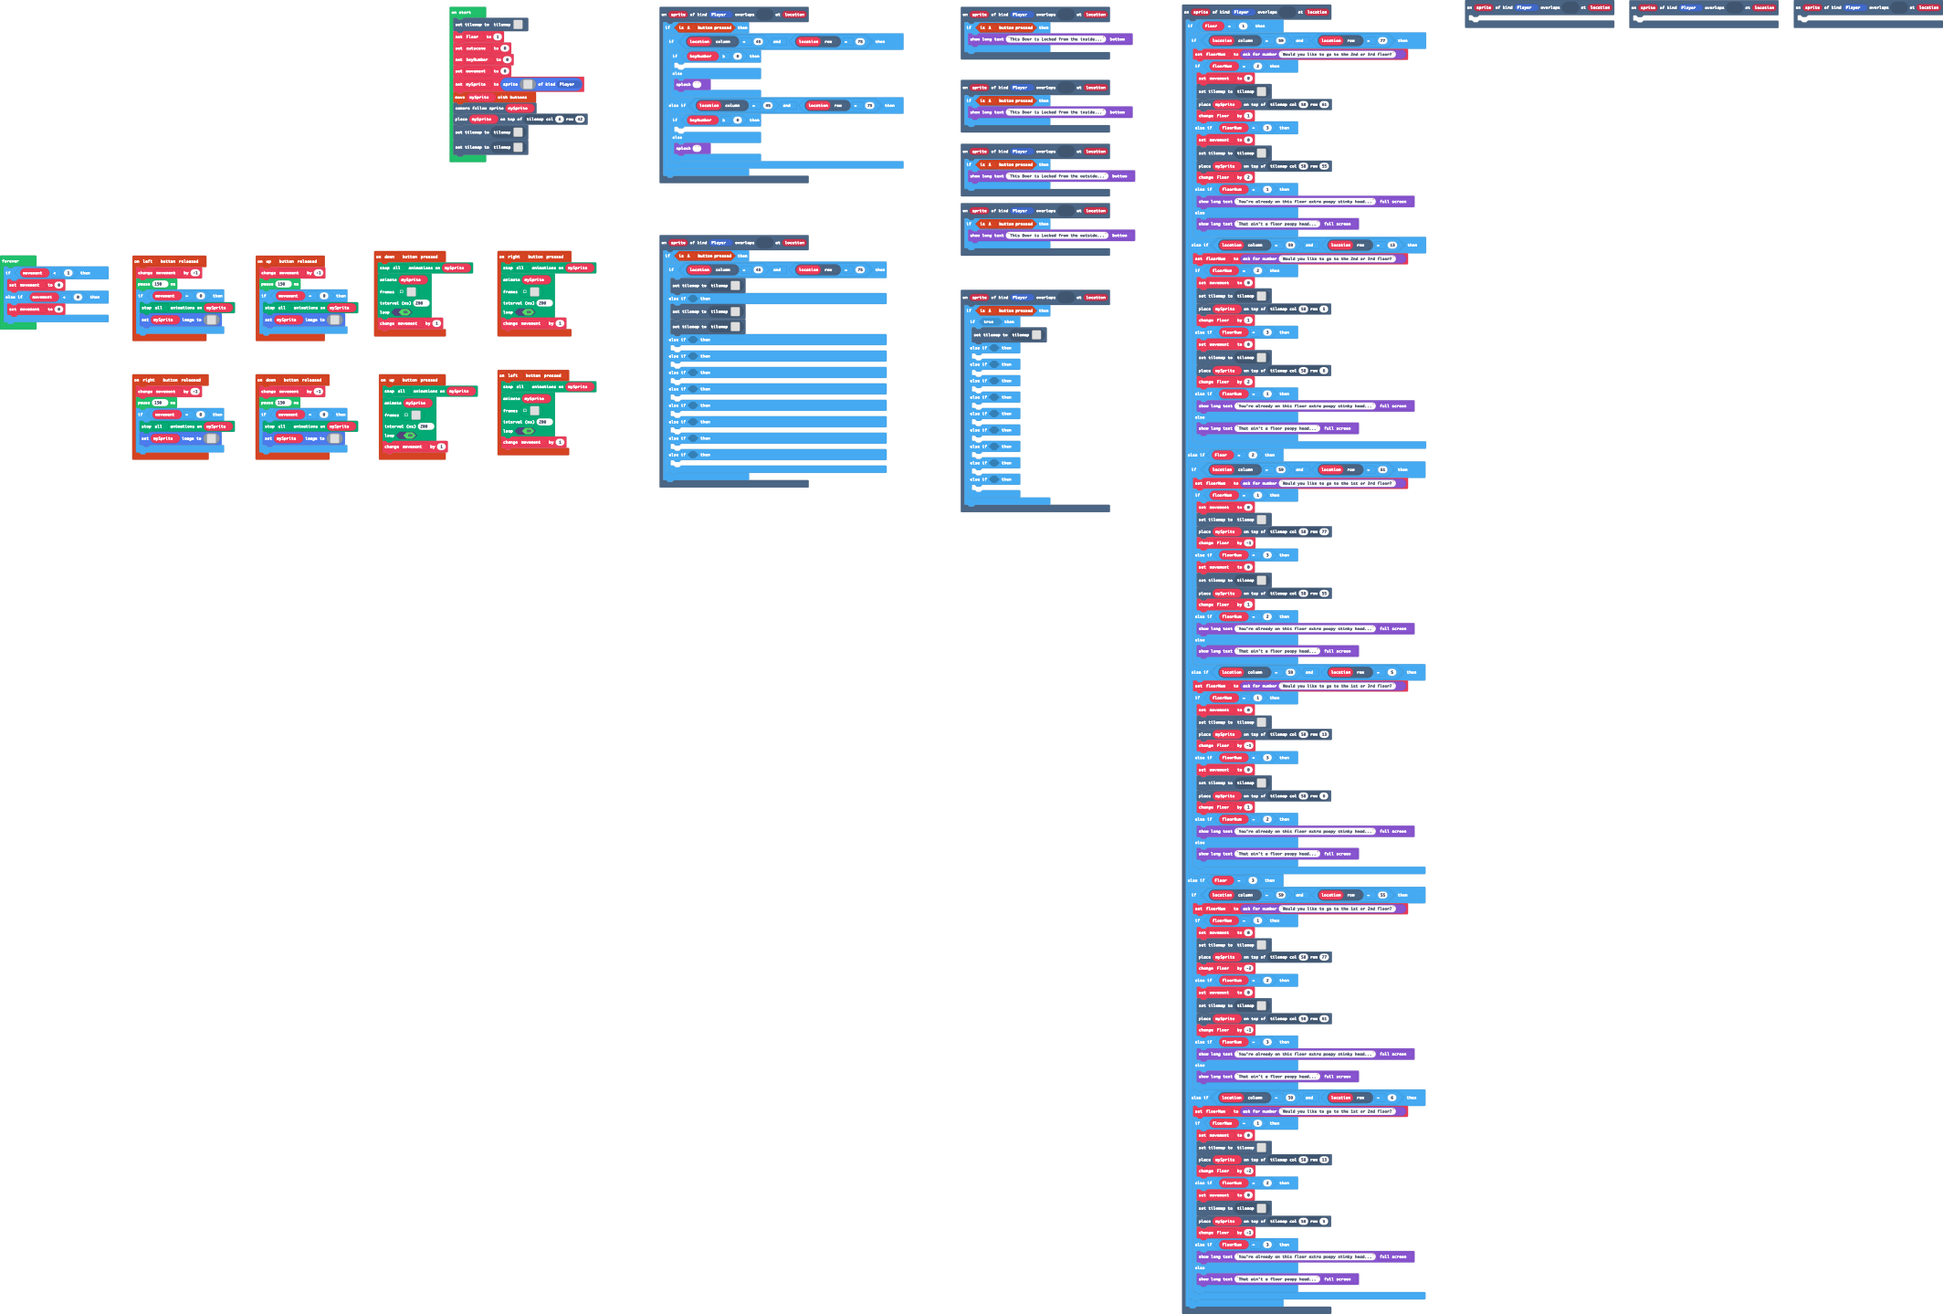
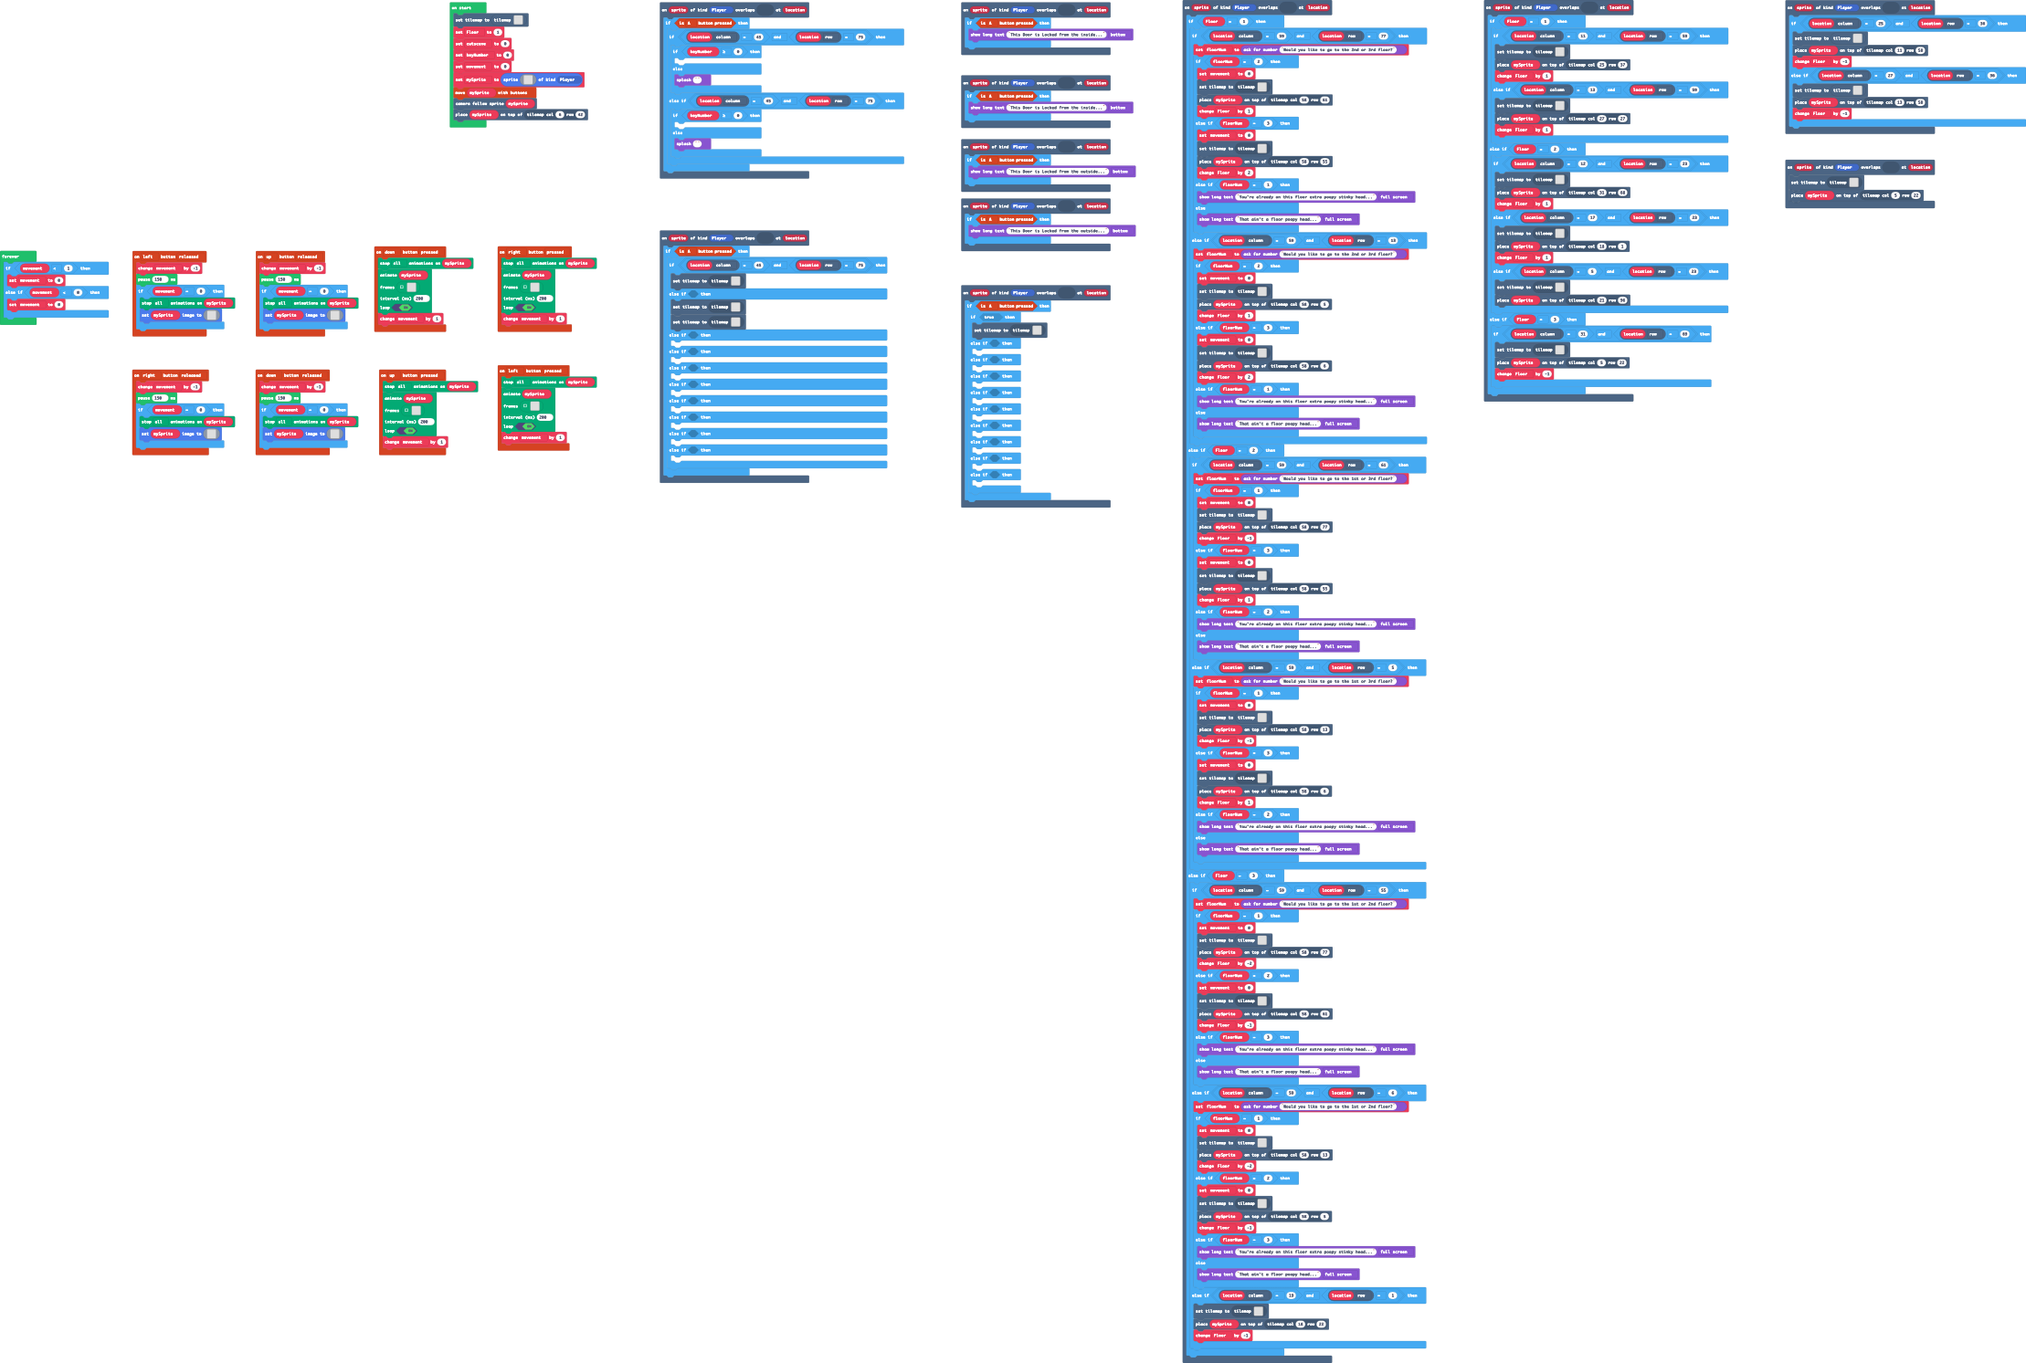
Update main.blocks, main.ts, tilemap.g.jres, tilemap.g.ts

Changed region(s): [[0.0, 0.0, 1.0, 1.0]]

diff --git a/tilemap.g.ts b/tilemap.g.ts
@@ -1316,6 +1316,234 @@ namespace myTiles {
 ....................
 ....................
 `, [myTiles.transparency16,myTiles.tile11,myTiles.tile1,myTiles.tile33,myTiles.tile34,myTiles.tile5,myTiles.tile7,myTiles.tile8,myTiles.tile14,myTiles.tile15,myTiles.tile25,myTiles.tile26,myTiles.tile46,myTiles.tile47], TileScale.Sixteen);
+            case "level46":
+            case "level46":return tiles.createTilemap(hex`1000100000000000000000000000000000000000000000000000000000000000000000000000000000000000000000000000000000000000000000000000000000000000000000000000000000000000000000000000000000000000000000000000000000000000000000000000000000000000000000000000000000000000000000000000000000000000000000000000000000000000000000000000000000000000000000000000000000000000000000000000000000000000000000000000000000000000000000000000000000000000000000000000000000000000000000000000000000000000000000000000000000000000000000000000000000000000`, img`
+. . . . . . . . . . . . . . . . 
+. . . . . . . . . . . . . . . . 
+. . . . . . . . . . . . . . . . 
+. . . . . . . . . . . . . . . . 
+. . . . . . . . . . . . . . . . 
+. . . . . . . . . . . . . . . . 
+. . . . . . . . . . . . . . . . 
+. . . . . . . . . . . . . . . . 
+. . . . . . . . . . . . . . . . 
+. . . . . . . . . . . . . . . . 
+. . . . . . . . . . . . . . . . 
+. . . . . . . . . . . . . . . . 
+. . . . . . . . . . . . . . . . 
+. . . . . . . . . . . . . . . . 
+. . . . . . . . . . . . . . . . 
+. . . . . . . . . . . . . . . . 
+`, [myTiles.transparency16], TileScale.Sixteen);
+            case "level47":
+            case "level47":return tiles.createTilemap(hex`1000100000000000000000000000000000000000000000000000000000000000000000000000000000000000000000000000000000000000000000000000000000000000000000000000000000000000000000000000000000000000000000000000000000000000000000000000000000000000000000000000000000000000000000000000000000000000000000000000000000000000000000000000000000000000000000000000000000000000000000000000000000000000000000000000000000000000000000000000000000000000000000000000000000000000000000000000000000000000000000000000000000000000000000000000000000000000`, img`
+. . . . . . . . . . . . . . . . 
+. . . . . . . . . . . . . . . . 
+. . . . . . . . . . . . . . . . 
+. . . . . . . . . . . . . . . . 
+. . . . . . . . . . . . . . . . 
+. . . . . . . . . . . . . . . . 
+. . . . . . . . . . . . . . . . 
+. . . . . . . . . . . . . . . . 
+. . . . . . . . . . . . . . . . 
+. . . . . . . . . . . . . . . . 
+. . . . . . . . . . . . . . . . 
+. . . . . . . . . . . . . . . . 
+. . . . . . . . . . . . . . . . 
+. . . . . . . . . . . . . . . . 
+. . . . . . . . . . . . . . . . 
+. . . . . . . . . . . . . . . . 
+`, [myTiles.transparency16], TileScale.Sixteen);
+            case "level48":
+            case "level48":return tiles.createTilemap(hex`1000100000000000000000000000000000000000000000000000000000000000000000000000000000000000000000000000000000000000000000000000000000000000000000000000000000000000000000000000000000000000000000000000000000000000000000000000000000000000000000000000000000000000000000000000000000000000000000000000000000000000000000000000000000000000000000000000000000000000000000000000000000000000000000000000000000000000000000000000000000000000000000000000000000000000000000000000000000000000000000000000000000000000000000000000000000000000`, img`
+. . . . . . . . . . . . . . . . 
+. . . . . . . . . . . . . . . . 
+. . . . . . . . . . . . . . . . 
+. . . . . . . . . . . . . . . . 
+. . . . . . . . . . . . . . . . 
+. . . . . . . . . . . . . . . . 
+. . . . . . . . . . . . . . . . 
+. . . . . . . . . . . . . . . . 
+. . . . . . . . . . . . . . . . 
+. . . . . . . . . . . . . . . . 
+. . . . . . . . . . . . . . . . 
+. . . . . . . . . . . . . . . . 
+. . . . . . . . . . . . . . . . 
+. . . . . . . . . . . . . . . . 
+. . . . . . . . . . . . . . . . 
+. . . . . . . . . . . . . . . . 
+`, [myTiles.transparency16], TileScale.Sixteen);
+            case "level49":
+            case "level49":return tiles.createTilemap(hex`1000100000000000000000000000000000000000000000000000000000000000000000000000000000000000000000000000000000000000000000000000000000000000000000000000000000000000000000000000000000000000000000000000000000000000000000000000000000000000000000000000000000000000000000000000000000000000000000000000000000000000000000000000000000000000000000000000000000000000000000000000000000000000000000000000000000000000000000000000000000000000000000000000000000000000000000000000000000000000000000000000000000000000000000000000000000000000`, img`
+. . . . . . . . . . . . . . . . 
+. . . . . . . . . . . . . . . . 
+. . . . . . . . . . . . . . . . 
+. . . . . . . . . . . . . . . . 
+. . . . . . . . . . . . . . . . 
+. . . . . . . . . . . . . . . . 
+. . . . . . . . . . . . . . . . 
+. . . . . . . . . . . . . . . . 
+. . . . . . . . . . . . . . . . 
+. . . . . . . . . . . . . . . . 
+. . . . . . . . . . . . . . . . 
+. . . . . . . . . . . . . . . . 
+. . . . . . . . . . . . . . . . 
+. . . . . . . . . . . . . . . . 
+. . . . . . . . . . . . . . . . 
+. . . . . . . . . . . . . . . . 
+`, [myTiles.transparency16], TileScale.Sixteen);
+            case "level50":
+            case "level50":return tiles.createTilemap(hex`1000100000000000000000000000000000000000000000000000000000000000000000000000000000000000000000000000000000000000000000000000000000000000000000000000000000000000000000000000000000000000000000000000000000000000000000000000000000000000000000000000000000000000000000000000000000000000000000000000000000000000000000000000000000000000000000000000000000000000000000000000000000000000000000000000000000000000000000000000000000000000000000000000000000000000000000000000000000000000000000000000000000000000000000000000000000000000`, img`
+. . . . . . . . . . . . . . . . 
+. . . . . . . . . . . . . . . . 
+. . . . . . . . . . . . . . . . 
+. . . . . . . . . . . . . . . . 
+. . . . . . . . . . . . . . . . 
+. . . . . . . . . . . . . . . . 
+. . . . . . . . . . . . . . . . 
+. . . . . . . . . . . . . . . . 
+. . . . . . . . . . . . . . . . 
+. . . . . . . . . . . . . . . . 
+. . . . . . . . . . . . . . . . 
+. . . . . . . . . . . . . . . . 
+. . . . . . . . . . . . . . . . 
+. . . . . . . . . . . . . . . . 
+. . . . . . . . . . . . . . . . 
+. . . . . . . . . . . . . . . . 
+`, [myTiles.transparency16], TileScale.Sixteen);
+            case "level51":
+            case "level51":return tiles.createTilemap(hex`1000100000000000000000000000000000000000000000000000000000000000000000000000000000000000000000000000000000000000000000000000000000000000000000000000000000000000000000000000000000000000000000000000000000000000000000000000000000000000000000000000000000000000000000000000000000000000000000000000000000000000000000000000000000000000000000000000000000000000000000000000000000000000000000000000000000000000000000000000000000000000000000000000000000000000000000000000000000000000000000000000000000000000000000000000000000000000`, img`
+. . . . . . . . . . . . . . . . 
+. . . . . . . . . . . . . . . . 
+. . . . . . . . . . . . . . . . 
+. . . . . . . . . . . . . . . . 
+. . . . . . . . . . . . . . . . 
+. . . . . . . . . . . . . . . . 
+. . . . . . . . . . . . . . . . 
+. . . . . . . . . . . . . . . . 
+. . . . . . . . . . . . . . . . 
+. . . . . . . . . . . . . . . . 
+. . . . . . . . . . . . . . . . 
+. . . . . . . . . . . . . . . . 
+. . . . . . . . . . . . . . . . 
+. . . . . . . . . . . . . . . . 
+. . . . . . . . . . . . . . . . 
+. . . . . . . . . . . . . . . . 
+`, [myTiles.transparency16], TileScale.Sixteen);
+            case "level52":
+            case "level52":return tiles.createTilemap(hex`1000100000000000000000000000000000000000000000000000000000000000000000000000000000000000000000000000000000000000000000000000000000000000000000000000000000000000000000000000000000000000000000000000000000000000000000000000000000000000000000000000000000000000000000000000000000000000000000000000000000000000000000000000000000000000000000000000000000000000000000000000000000000000000000000000000000000000000000000000000000000000000000000000000000000000000000000000000000000000000000000000000000000000000000000000000000000000`, img`
+. . . . . . . . . . . . . . . . 
+. . . . . . . . . . . . . . . . 
+. . . . . . . . . . . . . . . . 
+. . . . . . . . . . . . . . . . 
+. . . . . . . . . . . . . . . . 
+. . . . . . . . . . . . . . . . 
+. . . . . . . . . . . . . . . . 
+. . . . . . . . . . . . . . . . 
+. . . . . . . . . . . . . . . . 
+. . . . . . . . . . . . . . . . 
+. . . . . . . . . . . . . . . . 
+. . . . . . . . . . . . . . . . 
+. . . . . . . . . . . . . . . . 
+. . . . . . . . . . . . . . . . 
+. . . . . . . . . . . . . . . . 
+. . . . . . . . . . . . . . . . 
+`, [myTiles.transparency16], TileScale.Sixteen);
+            case "level53":
+            case "level53":return tiles.createTilemap(hex`1000100000000000000000000000000000000000000000000000000000000000000000000000000000000000000000000000000000000000000000000000000000000000000000000000000000000000000000000000000000000000000000000000000000000000000000000000000000000000000000000000000000000000000000000000000000000000000000000000000000000000000000000000000000000000000000000000000000000000000000000000000000000000000000000000000000000000000000000000000000000000000000000000000000000000000000000000000000000000000000000000000000000000000000000000000000000000`, img`
+. . . . . . . . . . . . . . . . 
+. . . . . . . . . . . . . . . . 
+. . . . . . . . . . . . . . . . 
+. . . . . . . . . . . . . . . . 
+. . . . . . . . . . . . . . . . 
+. . . . . . . . . . . . . . . . 
+. . . . . . . . . . . . . . . . 
+. . . . . . . . . . . . . . . . 
+. . . . . . . . . . . . . . . . 
+. . . . . . . . . . . . . . . . 
+. . . . . . . . . . . . . . . . 
+. . . . . . . . . . . . . . . . 
+. . . . . . . . . . . . . . . . 
+. . . . . . . . . . . . . . . . 
+. . . . . . . . . . . . . . . . 
+. . . . . . . . . . . . . . . . 
+`, [myTiles.transparency16], TileScale.Sixteen);
+            case "level54":
+            case "level54":return tiles.createTilemap(hex`1000100000000000000000000000000000000000000000000000000000000000000000000000000000000000000000000000000000000000000000000000000000000000000000000000000000000000000000000000000000000000000000000000000000000000000000000000000000000000000000000000000000000000000000000000000000000000000000000000000000000000000000000000000000000000000000000000000000000000000000000000000000000000000000000000000000000000000000000000000000000000000000000000000000000000000000000000000000000000000000000000000000000000000000000000000000000000`, img`
+. . . . . . . . . . . . . . . . 
+. . . . . . . . . . . . . . . . 
+. . . . . . . . . . . . . . . . 
+. . . . . . . . . . . . . . . . 
+. . . . . . . . . . . . . . . . 
+. . . . . . . . . . . . . . . . 
+. . . . . . . . . . . . . . . . 
+. . . . . . . . . . . . . . . . 
+. . . . . . . . . . . . . . . . 
+. . . . . . . . . . . . . . . . 
+. . . . . . . . . . . . . . . . 
+. . . . . . . . . . . . . . . . 
+. . . . . . . . . . . . . . . . 
+. . . . . . . . . . . . . . . . 
+. . . . . . . . . . . . . . . . 
+. . . . . . . . . . . . . . . . 
+`, [myTiles.transparency16], TileScale.Sixteen);
+            case "level55":
+            case "level55":return tiles.createTilemap(hex`1000100000000000000000000000000000000000000000000000000000000000000000000000000000000000000000000000000000000000000000000000000000000000000000000000000000000000000000000000000000000000000000000000000000000000000000000000000000000000000000000000000000000000000000000000000000000000000000000000000000000000000000000000000000000000000000000000000000000000000000000000000000000000000000000000000000000000000000000000000000000000000000000000000000000000000000000000000000000000000000000000000000000000000000000000000000000000`, img`
+. . . . . . . . . . . . . . . . 
+. . . . . . . . . . . . . . . . 
+. . . . . . . . . . . . . . . . 
+. . . . . . . . . . . . . . . . 
+. . . . . . . . . . . . . . . . 
+. . . . . . . . . . . . . . . . 
+. . . . . . . . . . . . . . . . 
+. . . . . . . . . . . . . . . . 
+. . . . . . . . . . . . . . . . 
+. . . . . . . . . . . . . . . . 
+. . . . . . . . . . . . . . . . 
+. . . . . . . . . . . . . . . . 
+. . . . . . . . . . . . . . . . 
+. . . . . . . . . . . . . . . . 
+. . . . . . . . . . . . . . . . 
+. . . . . . . . . . . . . . . . 
+`, [myTiles.transparency16], TileScale.Sixteen);
+            case "level56":
+            case "level56":return tiles.createTilemap(hex`1000100000000000000000000000000000000000000000000000000000000000000000000000000000000000000000000000000000000000000000000000000000000000000000000000000000000000000000000000000000000000000000000000000000000000000000000000000000000000000000000000000000000000000000000000000000000000000000000000000000000000000000000000000000000000000000000000000000000000000000000000000000000000000000000000000000000000000000000000000000000000000000000000000000000000000000000000000000000000000000000000000000000000000000000000000000000000`, img`
+. . . . . . . . . . . . . . . . 
+. . . . . . . . . . . . . . . . 
+. . . . . . . . . . . . . . . . 
+. . . . . . . . . . . . . . . . 
+. . . . . . . . . . . . . . . . 
+. . . . . . . . . . . . . . . . 
+. . . . . . . . . . . . . . . . 
+. . . . . . . . . . . . . . . . 
+. . . . . . . . . . . . . . . . 
+. . . . . . . . . . . . . . . . 
+. . . . . . . . . . . . . . . . 
+. . . . . . . . . . . . . . . . 
+. . . . . . . . . . . . . . . . 
+. . . . . . . . . . . . . . . . 
+. . . . . . . . . . . . . . . . 
+. . . . . . . . . . . . . . . . 
+`, [myTiles.transparency16], TileScale.Sixteen);
+            case "level57":
+            case "level57":return tiles.createTilemap(hex`1000100000000000000000000000000000000000000000000000000000000000000000000000000000000000000000000000000000000000000000000000000000000000000000000000000000000000000000000000000000000000000000000000000000000000000000000000000000000000000000000000000000000000000000000000000000000000000000000000000000000000000000000000000000000000000000000000000000000000000000000000000000000000000000000000000000000000000000000000000000000000000000000000000000000000000000000000000000000000000000000000000000000000000000000000000000000000`, img`
+. . . . . . . . . . . . . . . . 
+. . . . . . . . . . . . . . . . 
+. . . . . . . . . . . . . . . . 
+. . . . . . . . . . . . . . . . 
+. . . . . . . . . . . . . . . . 
+. . . . . . . . . . . . . . . . 
+. . . . . . . . . . . . . . . . 
+. . . . . . . . . . . . . . . . 
+. . . . . . . . . . . . . . . . 
+. . . . . . . . . . . . . . . . 
+. . . . . . . . . . . . . . . . 
+. . . . . . . . . . . . . . . . 
+. . . . . . . . . . . . . . . . 
+. . . . . . . . . . . . . . . . 
+. . . . . . . . . . . . . . . . 
+. . . . . . . . . . . . . . . . 
+`, [myTiles.transparency16], TileScale.Sixteen);
         }
         return null;
     })

diff --git a/main.ts b/main.ts
@@ -344,11 +344,44 @@ scene.onOverlapTile(SpriteKind.Player, assets.tile`myTile9`, function (sprite, l
             } else {
                 game.showLongText("That ain't a floor poopy head...", DialogLayout.Full)
             }
+        } else if (location.column == 19 && location.row == 1) {
+            tiles.setCurrentTilemap(tilemap`level44`)
+            tiles.placeOnTile(mySprite, tiles.getTileLocation(18, 22))
+            Floor += -1
         }
     }
 })
 scene.onOverlapTile(SpriteKind.Player, assets.tile`myTile42`, function (sprite, location) {
-	
+    if (Floor == 1) {
+        if (location.column == 11 && location.row == 59) {
+            tiles.setCurrentTilemap(tilemap`level15`)
+            tiles.placeOnTile(mySprite, tiles.getTileLocation(25, 37))
+            Floor += 1
+        } else if (location.column == 13 && location.row == 59) {
+            tiles.setCurrentTilemap(tilemap`level15`)
+            tiles.placeOnTile(mySprite, tiles.getTileLocation(27, 27))
+            Floor += 1
+        }
+    } else if (Floor == 2) {
+        if (location.column == 12 && location.row == 23) {
+            tiles.setCurrentTilemap(tilemap`level17`)
+            tiles.placeOnTile(mySprite, tiles.getTileLocation(31, 68))
+            Floor += 1
+        } else if (location.column == 17 && location.row == 23) {
+            tiles.setCurrentTilemap(tilemap`level45`)
+            tiles.placeOnTile(mySprite, tiles.getTileLocation(18, 1))
+            Floor += 1
+        } else if (location.column == 5 && location.row == 23) {
+            tiles.setCurrentTilemap(tilemap`level15`)
+            tiles.placeOnTile(mySprite, tiles.getTileLocation(21, 96))
+        }
+    } else if (Floor == 3) {
+        if (location.column == 31 && location.row == 69) {
+            tiles.setCurrentTilemap(tilemap`level44`)
+            tiles.placeOnTile(mySprite, tiles.getTileLocation(5, 22))
+            Floor += -1
+        }
+    }
 })
 controller.right.onEvent(ControllerButtonEvent.Released, function () {
     movement += -1
@@ -401,7 +434,8 @@ controller.left.onEvent(ControllerButtonEvent.Released, function () {
     }
 })
 scene.onOverlapTile(SpriteKind.Player, assets.tile`myTile18`, function (sprite, location) {
-	
+    tiles.setCurrentTilemap(tilemap`level44`)
+    tiles.placeOnTile(mySprite, tiles.getTileLocation(5, 22))
 })
 scene.onOverlapTile(SpriteKind.Player, assets.tile`myTile37`, function (sprite, location) {
     if (controller.A.isPressed()) {
@@ -538,7 +572,15 @@ controller.up.onEvent(ControllerButtonEvent.Released, function () {
     }
 })
 scene.onOverlapTile(SpriteKind.Player, assets.tile`myTile43`, function (sprite, location) {
-	
+    if (location.column == 25 && location.row == 36) {
+        tiles.setCurrentTilemap(tilemap`level2`)
+        tiles.placeOnTile(mySprite, tiles.getTileLocation(11, 58))
+        Floor += -1
+    } else if (location.column == 27 && location.row == 36) {
+        tiles.setCurrentTilemap(tilemap`level2`)
+        tiles.placeOnTile(mySprite, tiles.getTileLocation(13, 58))
+        Floor += -1
+    }
 })
 controller.down.onEvent(ControllerButtonEvent.Pressed, function () {
     animation.stopAnimation(animation.AnimationTypes.All, mySprite)
@@ -649,8 +691,6 @@ mySprite = sprites.create(img`
 controller.moveSprite(mySprite)
 scene.cameraFollowSprite(mySprite)
 tiles.placeOnTile(mySprite, tiles.getTileLocation(6, 42))
-tiles.setCurrentTilemap(tilemap`level44`)
-tiles.setCurrentTilemap(tilemap`level45`)
 forever(function () {
     if (movement < 1) {
         movement = 0
